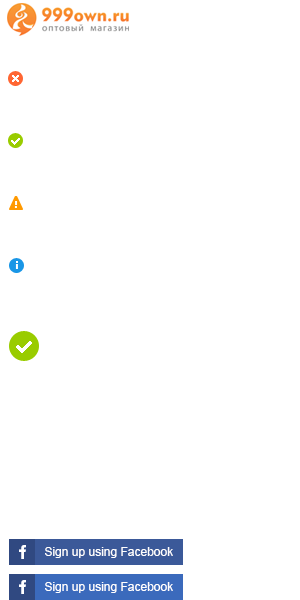
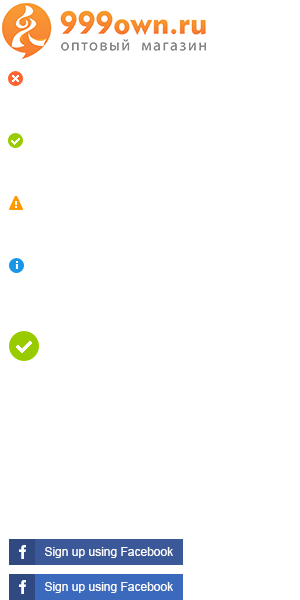
登陆页多语言文字修改

Changed region(s): [[0.0, 0.0, 0.69, 0.09]]

diff --git a/usermanage/css/expressJoin.css b/usermanage/css/expressJoin.css
@@ -23,15 +23,15 @@ border-top: 0px;
 width: 950px;
 padding: 20px 0 30px;
 margin: 0 auto;
-height: 30px;
+height: 40px;
 }
 
 .header .logo {
 float: left;
 display: block;
-width: 180px;
-height: 35px;
-background: transparent url(../images/ws-join.png?t=9984100_0) no-repeat scroll -4px 0;
+width: 230px;
+height: 60px;
+background: transparent url(../images/ws-join.png?t=9984100_0) no-repeat scroll 0px 0;
 }
 
 .header .logo a {
@@ -54,7 +54,7 @@ padding-bottom: 30px;
 }
 
 .page .left-form {
-width: 550px;
+width: 650px;
 border: 4px solid #eaeaea;
 background-color: #fff;
 }
@@ -66,7 +66,7 @@ color: #333;
 }
 
 .page .form-head h2 {
-font: 22px 'PT Sans Narrow';
+/*font: 22px 'PT Sans Narrow';*/
 font-weight: 700;
 display: inline-block;
 }
